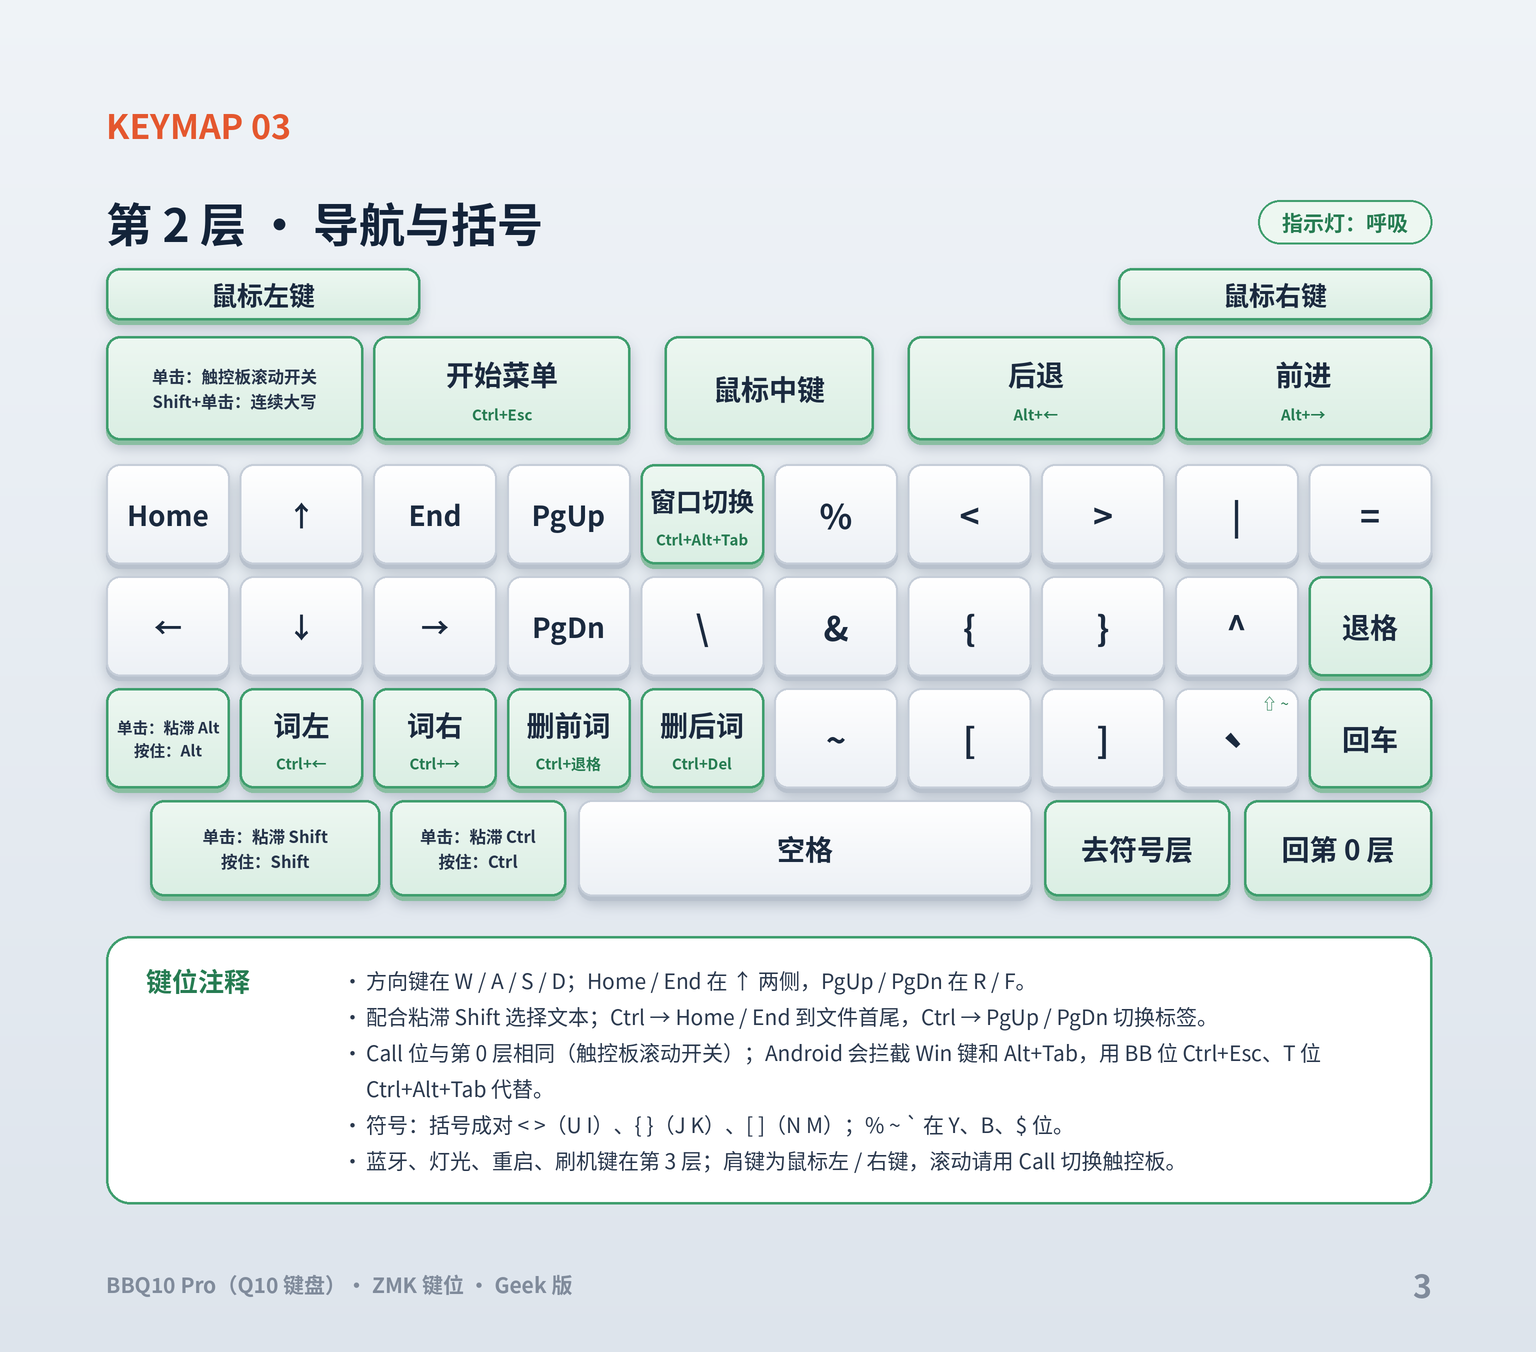
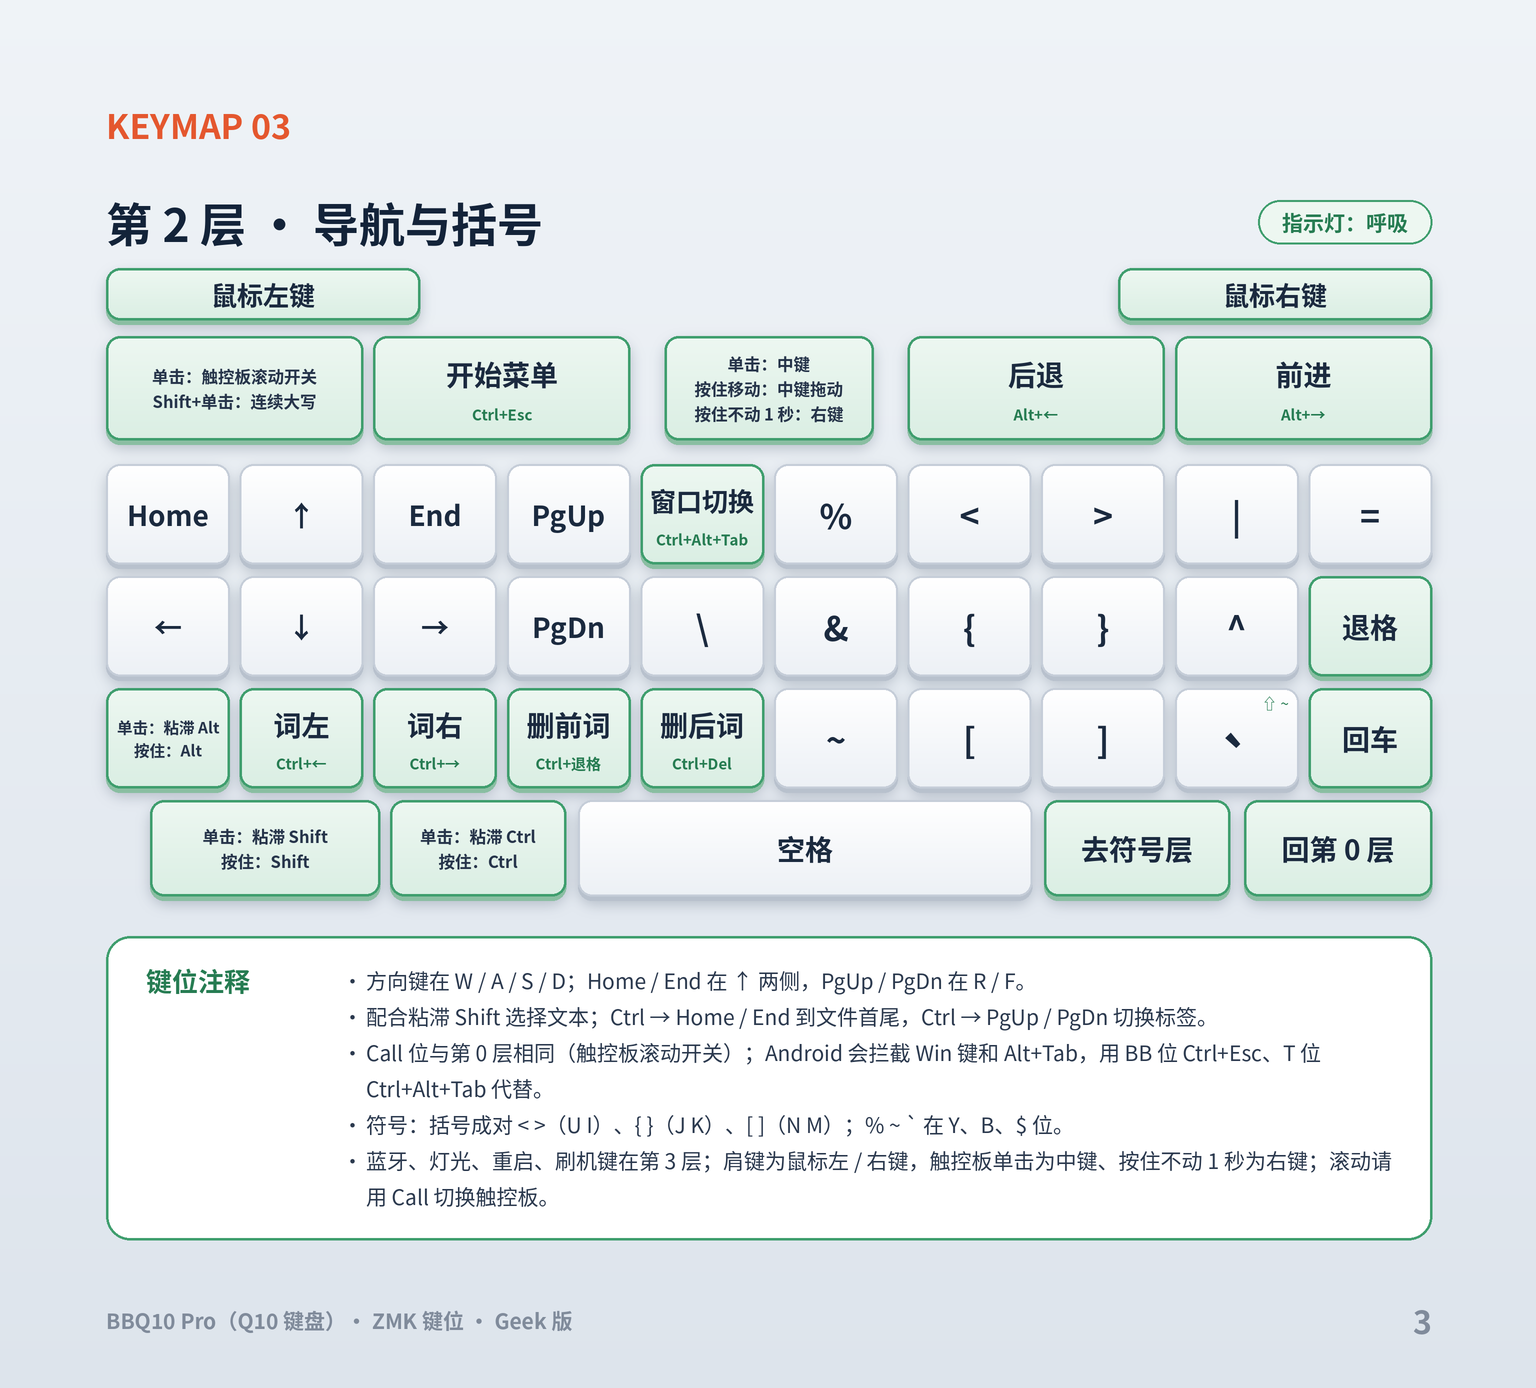
Right-click by holding the trackpad still for one second
Pressing the trackpad sent a left click right away. A new trackpad click
behavior now decides what the press means:

- Release before anything else happens: left click
- Move the trackpad while it is pressed: hold the left button, so dragging
  keeps working
- Hold the trackpad still for 1 s: right click

The a320 driver counts raw trackpad motion so the behavior can tell a still
long press from a drag.

- Add the zmk,behavior-trackpad-click behavior (long-press-ms,
  move-threshold) with ZMK Studio parameter metadata
- Layer 0: &tpc LCLK RCLK; symbol layer: &trans; navigation layer keeps a
  middle click for a short press (&tpc MCLK RCLK); FN layer is unchanged
- Update the layer diagrams

diff --git a/config/boards/arm/zitaotech_q10/custom_driver/behavior_trackpad_click.c b/config/boards/arm/zitaotech_q10/custom_driver/behavior_trackpad_click.c
@@ -1,0 +1,180 @@
+/*
+ * Trackpad click behavior: a short press clicks the first binding, moving the trackpad while it is
+ * pressed holds the first binding (drag), and holding the trackpad still for long-press-ms clicks
+ * the second binding.
+ *
+ * SPDX-License-Identifier: MIT
+ */
+
+#define DT_DRV_COMPAT zmk_behavior_trackpad_click
+
+#include <zephyr/device.h>
+#include <zephyr/kernel.h>
+#include <zephyr/logging/log.h>
+
+#include <drivers/behavior.h>
+#include <zmk/behavior.h>
+
+#include "a320.h"
+
+LOG_MODULE_DECLARE(zmk, CONFIG_ZMK_LOG_LEVEL);
+
+#if DT_HAS_COMPAT_STATUS_OKAY(DT_DRV_COMPAT)
+
+#define DECIDE_INTERVAL_MS 5
+
+struct behavior_trackpad_click_config {
+    const char *click_behavior_dev;
+    const char *long_press_behavior_dev;
+    int32_t long_press_ms;
+    uint32_t move_threshold;
+};
+
+struct behavior_trackpad_click_data {
+    struct behavior_parameter_metadata_set set;
+};
+
+enum trackpad_click_state {
+    TRACKPAD_CLICK_IDLE,
+    TRACKPAD_CLICK_UNDECIDED,
+    TRACKPAD_CLICK_DRAGGING,
+    TRACKPAD_CLICK_LONG_PRESSED,
+};
+
+/* There is only one trackpad, so a single press is tracked at a time */
+static struct {
+    enum trackpad_click_state state;
+    const struct behavior_trackpad_click_config *config;
+    struct zmk_behavior_binding_event event;
+    uint32_t click_param;
+    uint32_t long_press_param;
+    uint32_t motion_at_press;
+} active;
+
+static struct k_work_delayable decide_work;
+
+static void invoke(const char *behavior_dev, uint32_t param, bool pressed) {
+    struct zmk_behavior_binding binding = {.behavior_dev = behavior_dev, .param1 = param};
+    struct zmk_behavior_binding_event event = active.event;
+
+    event.timestamp = k_uptime_get();
+    zmk_behavior_invoke_binding(&binding, event, pressed);
+}
+
+static void decide_work_handler(struct k_work *work) {
+    const struct behavior_trackpad_click_config *cfg = active.config;
+
+    if (active.state != TRACKPAD_CLICK_UNDECIDED) {
+        return;
+    }
+
+    if (a320_motion_counts() - active.motion_at_press > cfg->move_threshold) {
+        LOG_DBG("trackpad click: drag");
+        active.state = TRACKPAD_CLICK_DRAGGING;
+        invoke(cfg->click_behavior_dev, active.click_param, true);
+    } else if (k_uptime_get() - active.event.timestamp >= cfg->long_press_ms) {
+        LOG_DBG("trackpad click: long press");
+        active.state = TRACKPAD_CLICK_LONG_PRESSED;
+        invoke(cfg->long_press_behavior_dev, active.long_press_param, true);
+        invoke(cfg->long_press_behavior_dev, active.long_press_param, false);
+    } else {
+        k_work_reschedule(&decide_work, K_MSEC(DECIDE_INTERVAL_MS));
+    }
+}
+
+static int on_trackpad_click_pressed(struct zmk_behavior_binding *binding,
+                                     struct zmk_behavior_binding_event event) {
+    const struct device *dev = zmk_behavior_get_binding(binding->behavior_dev);
+
+    active.state = TRACKPAD_CLICK_UNDECIDED;
+    active.config = dev->config;
+    active.event = event;
+    active.click_param = binding->param1;
+    active.long_press_param = binding->param2;
+    active.motion_at_press = a320_motion_counts();
+    k_work_reschedule(&decide_work, K_MSEC(DECIDE_INTERVAL_MS));
+    return ZMK_BEHAVIOR_OPAQUE;
+}
+
+static int on_trackpad_click_released(struct zmk_behavior_binding *binding,
+                                      struct zmk_behavior_binding_event event) {
+    const struct behavior_trackpad_click_config *cfg = active.config;
+
+    k_work_cancel_delayable(&decide_work);
+
+    if (active.state == TRACKPAD_CLICK_UNDECIDED) {
+        invoke(cfg->click_behavior_dev, active.click_param, true);
+        invoke(cfg->click_behavior_dev, active.click_param, false);
+    } else if (active.state == TRACKPAD_CLICK_DRAGGING) {
+        invoke(cfg->click_behavior_dev, active.click_param, false);
+    }
+
+    active.state = TRACKPAD_CLICK_IDLE;
+    return ZMK_BEHAVIOR_OPAQUE;
+}
+
+static int behavior_trackpad_click_init(const struct device *dev) {
+    k_work_init_delayable(&decide_work, decide_work_handler);
+    return 0;
+}
+
+#if IS_ENABLED(CONFIG_ZMK_BEHAVIOR_METADATA)
+/* Like hold-tap: param1 takes the click binding's values, param2 the long press binding's */
+static int trackpad_click_parameter_metadata(const struct device *dev,
+                                             struct behavior_parameter_metadata *param_metadata) {
+    const struct behavior_trackpad_click_config *cfg = dev->config;
+    struct behavior_trackpad_click_data *data = dev->data;
+    struct behavior_parameter_metadata child_meta;
+    int err;
+
+    err = behavior_get_parameter_metadata(zmk_behavior_get_binding(cfg->click_behavior_dev),
+                                          &child_meta);
+    if (err < 0) {
+        return err;
+    }
+    if (child_meta.sets_len > 0) {
+        data->set.param1_values = child_meta.sets[0].param1_values;
+        data->set.param1_values_len = child_meta.sets[0].param1_values_len;
+    }
+
+    err = behavior_get_parameter_metadata(zmk_behavior_get_binding(cfg->long_press_behavior_dev),
+                                          &child_meta);
+    if (err < 0) {
+        return err;
+    }
+    if (child_meta.sets_len > 0) {
+        data->set.param2_values = child_meta.sets[0].param1_values;
+        data->set.param2_values_len = child_meta.sets[0].param1_values_len;
+    }
+
+    param_metadata->sets = &data->set;
+    param_metadata->sets_len = 1;
+    return 0;
+}
+#endif // IS_ENABLED(CONFIG_ZMK_BEHAVIOR_METADATA)
+
+static const struct behavior_driver_api behavior_trackpad_click_driver_api = {
+    .binding_pressed = on_trackpad_click_pressed,
+    .binding_released = on_trackpad_click_released,
+#if IS_ENABLED(CONFIG_ZMK_BEHAVIOR_METADATA)
+    .get_parameter_metadata = trackpad_click_parameter_metadata,
+#endif // IS_ENABLED(CONFIG_ZMK_BEHAVIOR_METADATA)
+};
+
+#define TRACKPAD_CLICK_INST(n)                                                                     \
+    static const struct behavior_trackpad_click_config behavior_trackpad_click_config_##n = {      \
+        .click_behavior_dev = DEVICE_DT_NAME(DT_INST_PHANDLE_BY_IDX(n, bindings, 0)),              \
+        .long_press_behavior_dev = DEVICE_DT_NAME(DT_INST_PHANDLE_BY_IDX(n, bindings, 1)),         \
+        .long_press_ms = DT_INST_PROP(n, long_press_ms),                                           \
+        .move_threshold = DT_INST_PROP(n, move_threshold),                                         \
+    };                                                                                             \
+    static struct behavior_trackpad_click_data behavior_trackpad_click_data_##n = {};              \
+    BEHAVIOR_DT_INST_DEFINE(n, behavior_trackpad_click_init, NULL,                                 \
+                            &behavior_trackpad_click_data_##n,                                     \
+                            &behavior_trackpad_click_config_##n, POST_KERNEL,                      \
+                            CONFIG_KERNEL_INIT_PRIORITY_DEFAULT,                                   \
+                            &behavior_trackpad_click_driver_api);
+
+DT_INST_FOREACH_STATUS_OKAY(TRACKPAD_CLICK_INST)
+
+#endif /* DT_HAS_COMPAT_STATUS_OKAY(DT_DRV_COMPAT) */

diff --git a/config/boards/arm/zitaotech_q10/custom_driver/a320.c b/config/boards/arm/zitaotech_q10/custom_driver/a320.c
@@ -14,6 +14,7 @@
 #include <zephyr/input/input.h>
 #include <zephyr/logging/log.h>
 #include <zephyr/sys/byteorder.h>
+#include <zephyr/sys/atomic.h>
 #include <zephyr/dt-bindings/input/input-event-codes.h>
 
 #include <stdlib.h>
@@ -21,6 +22,7 @@
 #include <zmk/events/position_state_changed.h>
 #include <zmk/events/hid_indicators_changed.h>
 
+#include "a320.h"
 #include "trackpad_led.h"
 
 LOG_MODULE_REGISTER(a320, CONFIG_A320_LOG_LEVEL);
@@ -83,6 +85,9 @@ static const struct device *trackpoint_dev_ref = NULL;
 
 static int32_t scroll_remainder = 0;
 static int64_t scroll_last_motion_ms = 0;
+
+/* Raw motion total, read by the trackpad click behavior to tell a still long press from a drag */
+static atomic_t motion_counts = ATOMIC_INIT(0);
 
 static int16_t slow_remainder_x = 0;
 static int16_t slow_remainder_y = 0;
@@ -269,6 +274,8 @@ static void a320_poll_work_handler(struct k_work *work) {
 
         if (data->read_motion(data->dev, &dx, &dy) == 0 && (dx || dy)) {
 
+            atomic_add(&motion_counts, abs(dx) + abs(dy));
+
             bool scroll_mode = current_indicators & HID_INDICATORS_SCROLL_MODE;
 
             /* ===== SHIFT → ARROW MODE ===== */
@@ -336,6 +343,8 @@ reschedule:
 }
 
 bool tp_is_touched(void) { return touched; }
+
+uint32_t a320_motion_counts(void) { return (uint32_t)atomic_get(&motion_counts); }
 
 /* =========================
  * Init

diff --git a/config/boards/arm/zitaotech_q10/custom_driver/a320.h b/config/boards/arm/zitaotech_q10/custom_driver/a320.h
@@ -12,6 +12,7 @@ extern "C" {
 #endif
 
 #include <stdbool.h>
+#include <stdint.h>
 
 /**
  * @brief check if the touchpad is touched
@@ -19,6 +20,13 @@ extern "C" {
  * @return true if touched
  */
 bool tp_is_touched(void);
+
+/**
+ * @brief Total trackpad motion (|dx| + |dy| in sensor counts) since boot, wrapping on overflow.
+ *
+ * Compare two readings with unsigned subtraction to get the motion in between.
+ */
+uint32_t a320_motion_counts(void);
 
 #ifdef __cplusplus
 }
